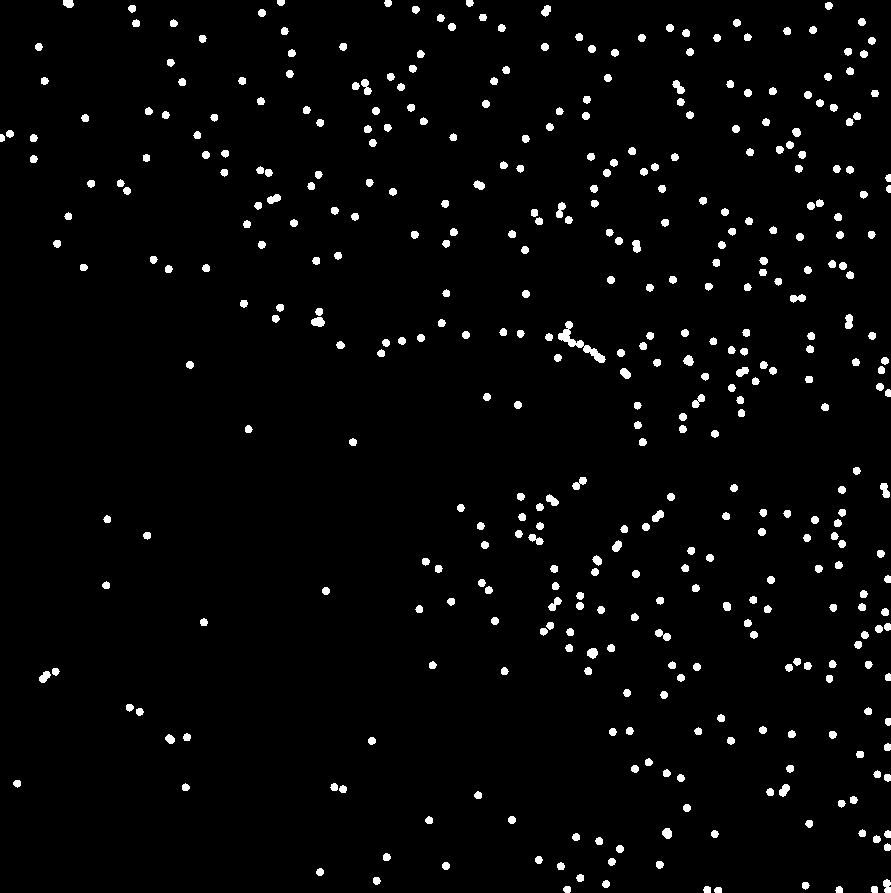
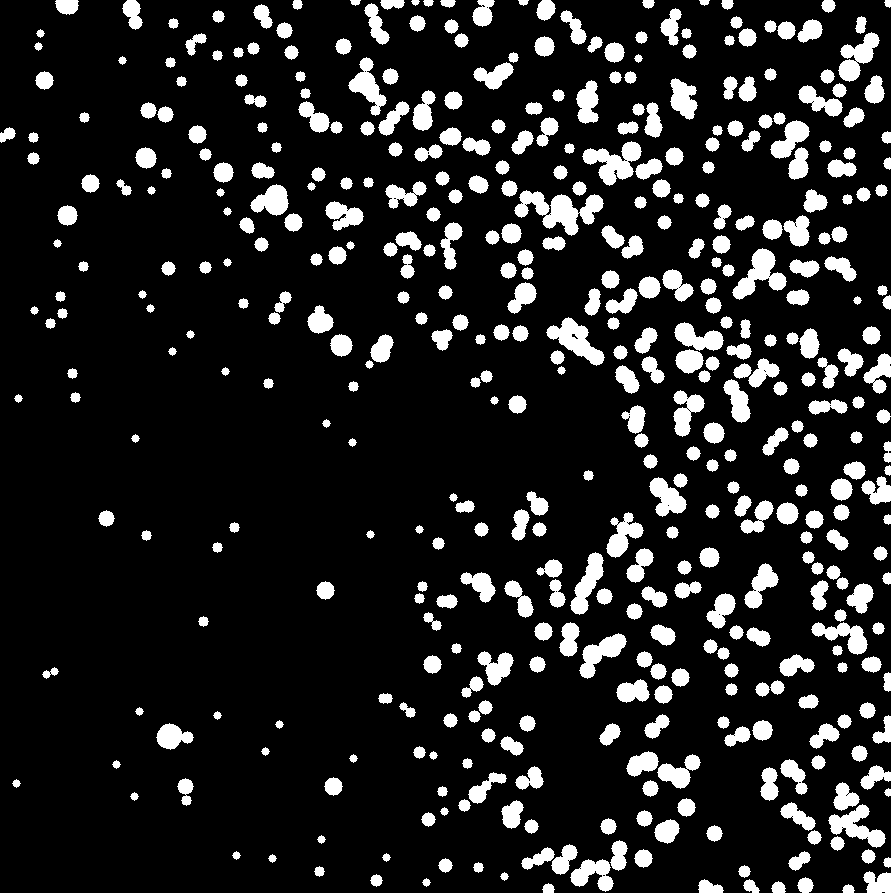
Etoiles retirées

diff --git a/erosion.py b/erosion.py
@@ -64,24 +64,51 @@ hdul.close()
 mean: float
 median: float
 std: float
-mean, median, std = sigma_clipped_stats(data, sigma=3.0)
-daofind: DAOStarFinder = DAOStarFinder(fwhm=5.0, threshold=std)
-sources = daofind(data - median)
 
-for col in sources.colnames:
-    if col not in ('id', 'npix'):
-        sources[col].info.format = '%.2f'
+# Utiliser les données en niveaux de gris pour la détection
+if data.ndim == 3:
+    data_gray: NDArray = np.mean(data, axis=2)
+else:
+    data_gray: NDArray = data
 
-mask: NDArray[np.uint8] = np.zeros(data.shape, dtype=np.uint8)
+mean, median, std = sigma_clipped_stats(data_gray, sigma=3.0)
+daofind: DAOStarFinder = DAOStarFinder(fwhm=2.0, threshold=0.5 * std)
+sources = daofind(data_gray - median)
 
-# Créer les apertures circulaires pour marquer les étoiles
-positions: NDArray = np.transpose((sources['xcentroid'], sources['ycentroid']))
-apertures: CircularAperture = CircularAperture(positions, r=4.0)
-
-# Remplir le masque avec les apertures
-star_masks: list = apertures.to_mask(method='center')
-for star_mask in star_masks:
-    if star_mask is not None:
-        mask += (star_mask.to_image(data.shape) * 255).astype(np.uint8)
-
-cv.imwrite('./results/star_mask.png', mask)
+if sources is not None:
+    print(f"{len(sources)} étoiles détectées")
+    
+    # Créer un masque pour les étoiles avec des rayons adaptés à leur taille
+    mask: NDArray[np.uint8] = np.zeros(data_gray.shape, dtype=np.uint8)
+    
+    # Marquer chaque étoile avec un rayon adapté à sa taille (basé sur sharpness et flux)
+    for source in sources:
+        x, y = int(source['xcentroid']), int(source['ycentroid'])
+        # Rayon adapté à la taille de l'étoile (entre 4 et 12 pixels)
+        radius = int(max(4, min(12, source['sharpness'] * 8 + source['peak'] / 2000)))
+        cv.circle(mask, (x, y), radius, 255, -1)
+    
+    print(f"Pixels dans le masque: {np.count_nonzero(mask)}")
+    cv.imwrite('./results/star_mask.png', mask)
+    
+    # Utiliser l'inpainting pour créer une image de fond
+    background: NDArray[np.uint8] = cv.inpaint(image, mask, 3, cv.INPAINT_TELEA)
+    
+    # Adoucir les bords du masque avec un flou gaussien
+    mask_float: NDArray[np.float32] = mask.astype(np.float32) / 255.0
+    mask_blurred: NDArray[np.float32] = cv.GaussianBlur(mask_float, (11, 11), 3.0)
+    
+    # Appliquer la formule d'interpolation : I_final = (M × I_eroded) + ((1-M) × I_original)
+    if data.ndim == 3:
+        # Pour les images couleur, appliquer sur chaque canal
+        result: NDArray[np.uint8] = np.zeros_like(image)
+        for i in range(3):
+            result[:, :, i] = ((1 - mask_blurred) * image[:, :, i] + 
+                              mask_blurred * background[:, :, i]).astype(np.uint8)
+    else:
+        # Pour les images monochromes
+        result: NDArray[np.uint8] = ((1 - mask_blurred) * image + 
+                                     mask_blurred * background).astype(np.uint8)
+    
+    # Sauvegarder l'image sans étoiles
+    cv.imwrite('./results/stars_removed.png', result, [cv.IMWRITE_PNG_COMPRESSION, 9])
